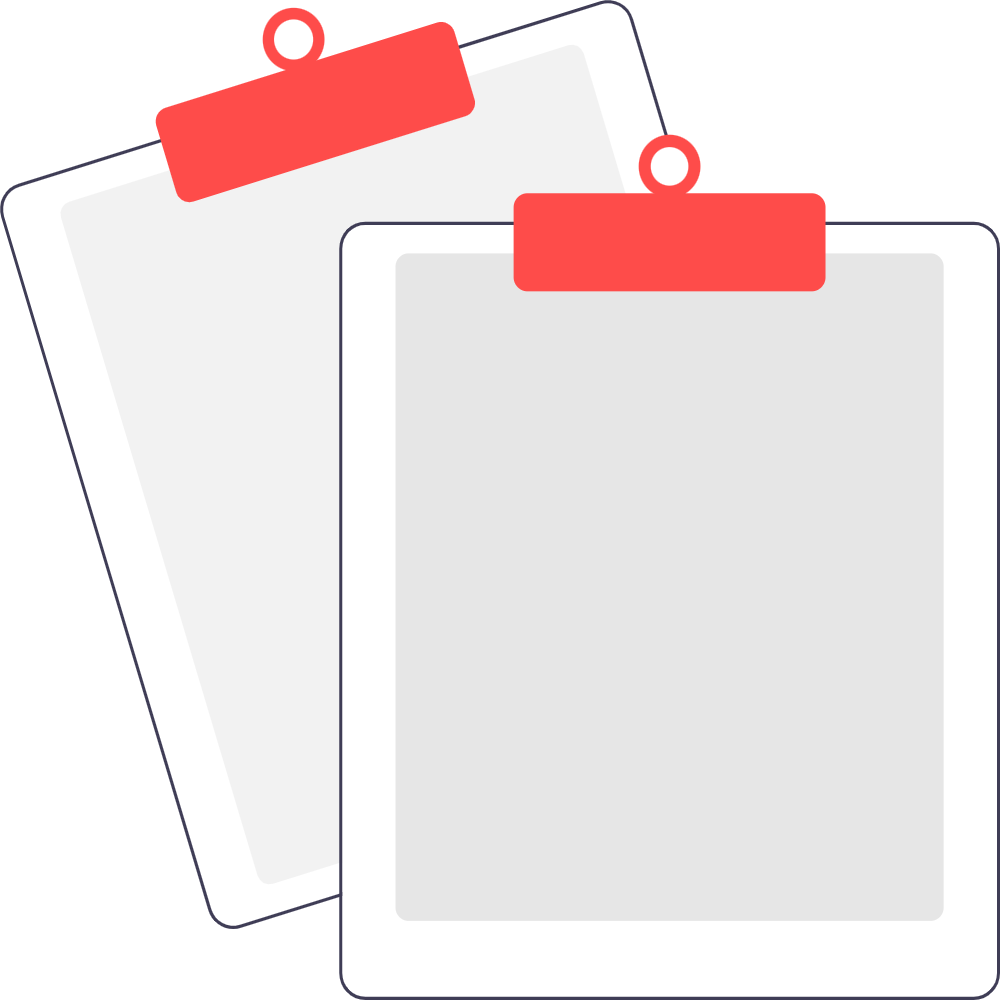
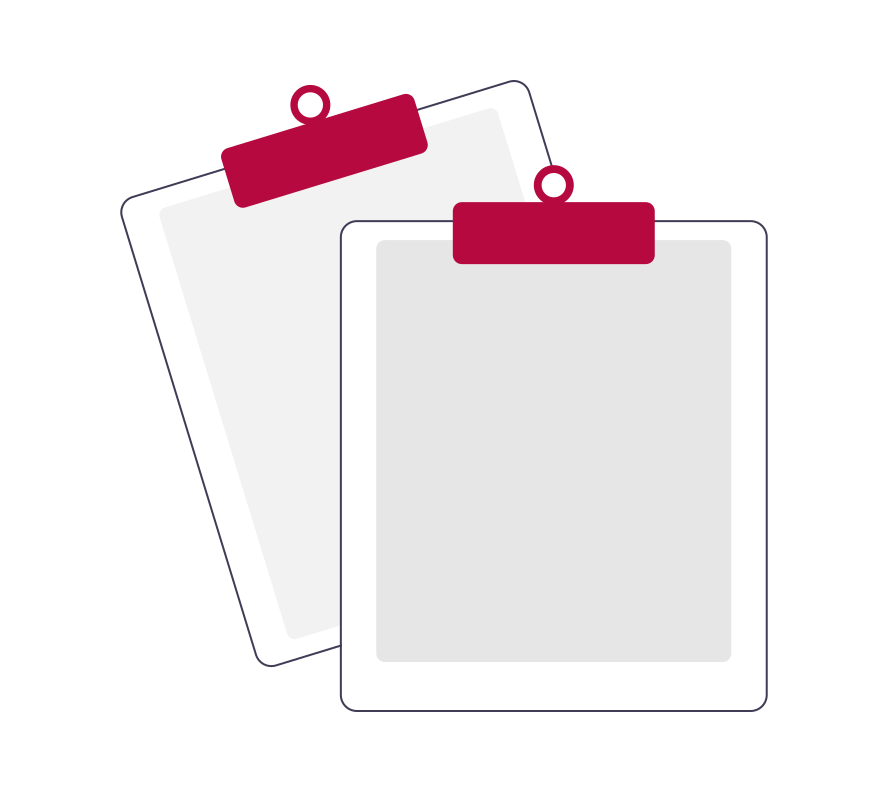
Bug fixes, edited theme, added feature
- Fixed Continent - Country issue (When updating Continent, the countries are now limited to the countries of that continent)
- Small theme changes (HPI Logo now on top, changed default colors)
- Absolute/relative numbers now on right side of the chart, no need to click "Submit and Compare" anymore to change data representation

diff --git a/prototype.py b/prototype.py
@@ -5,12 +5,9 @@ import streamlit as st
 import numpy as np
 import os
 from PIL import Image
-
 from utils import log
 import graph_logic as gl
 import general_statistics as gs
-
-
 
 
 def main():
@@ -18,14 +15,34 @@ def main():
 
     img = Image.open('assets/page_icon.ico')
     st.set_page_config(
-        page_title='GAP • Hasso-Plattner-Institut', page_icon=img, layout="wide")
+        page_title='GAP • Hasso-Plattner-Institut',
+        page_icon=img,
+        layout="wide",
+        menu_items={
+            'About': "htt"
+        }
+    )
+
+    hide_hamburger_menu = '''
+        <style>
+            #MainMenu {
+                content:url("https://upload.wikimedia.org/wikipedia/commons/thumb/a/a9/HPI_logo.svg/1200px-HPI_logo.svg.png"); 
+                width: 50px;
+                height: 50px;
+                visibility: visible;      
+            }
+        </style>
+    '''
+
+    st.markdown(hide_hamburger_menu, unsafe_allow_html=True)
 
     st.title('GAP: Gender Analysis for Publications')
 
     # Connect to SQLite database
     with st.spinner('Opening datasbase connection (This can take a while)...'):
         if 'connection' not in st.session_state:
-            st.session_state.connection = connect('gap.db', check_same_thread=False)
+            st.session_state.connection = connect('gap.db',
+                                                  check_same_thread=False)
 
         # Create cursor object
         if 'cursor' not in st.session_state:
@@ -42,11 +59,9 @@ def main():
             sql = '''SELECT min(Year),max(Year) FROM AllTogether;'''
             st.session_state.min_max = query_action(sql, 'check')[0]
         if 'year_range' not in st.session_state:
-            st.session_state.year_range = [
-                2000, 2022]
+            st.session_state.year_range = [2000, 2022]
         if 'pyr' not in st.session_state:
-            st.session_state.pyr = [
-                2000, 2022]
+            st.session_state.pyr = [2000, 2022]
         if 'widget_data_representation' not in st.session_state:
             st.session_state.widget_data_representation = 'Absolute numbers'
 
@@ -55,13 +70,13 @@ def main():
         if 'widget_count' not in st.session_state:
             st.session_state.widget_count = ''
         if 'widget_cont' not in st.session_state:
-            st.session_state.widget_cont = ''
+            st.session_state.widget_cont = []
         if 'widget_pub_type' not in st.session_state:
             st.session_state.widget_pub_type = ''
         if 'widget_auth_pos' not in st.session_state:
             st.session_state.widget_auth_pos = ''
         if 'widget_data_representation' not in st.session_state:
-            st.session_state.widget_data_representation = ''
+            st.session_state.widget_data_representation = 'Absolute numbers'
         if 'logtxtbox' not in st.session_state:
             st.session_state.logtxtbox = ''
 
@@ -76,60 +91,19 @@ def main():
         if 'ui_widget_auth_pos' not in st.session_state:
             st.session_state.ui_widget_auth_pos = ''
 
-
         if 'line_graph_data' not in st.session_state:
             st.session_state.line_graph_data = None
         if 'graph_years' not in st.session_state:
             st.session_state.graph_years = None
 
-#     st.markdown("""
-#         <style>
-# ul.streamlit-expander {
-#     border: 0 !important;
-# </style>
-# """, unsafe_allow_html=True),
-    with st.spinner('Loading filters 2/2...'):  
-        gl.display_filters(
-            st.session_state.cursor)
+    with st.spinner('Loading filters 2/2...'):
+        gl.display_filters(st.session_state.cursor)
 
-    #col1, col2 = st.columns([1, 3])
-
-    # button = col1.button('Submit and Compare')
-
-    # is_submit_pressed = button_states()
-
-    # if button:
-    #     # any changes need to be performed in place
-    #     is_submit_pressed.update({"pressed": True})
-    #     gl.populate_graph(st.session_state.connection)
-
-    # if is_submit_pressed["pressed"]:
-    #     gl.populate_graph(st.session_state.connection)
-
-
-    #st.session_state['graph'] = st.empty()
-
-    # if len(st.session_state.y_columns) == 0:
-    #         with graph_col:
-    #             st.markdown(
-    #                 "<h5 style='text-align: center;'>You have not selected any graphs yet </h5>", unsafe_allow_html=True)
-
-    #             image = Image.open('assets/no_data.png')
-
-    #             col1, col2, col3 = st.columns(3)
-
-    #             with col1:
-    #                 st.write('')
-
-    #             with col2:
-    #                 st.image(image, use_column_width=True)
-
-    #             with col3:
-    #                 st.write('')
 
     if 'graph' not in st.session_state or st.session_state.graph == None or not st.session_state.graph.data:
         st.markdown(
-            "<h5 style='text-align: center;'>You have not selected any graphs yet </h5>", unsafe_allow_html=True)
+            "<h5 style='text-align: center;'>You have not selected any graphs yet </h5>",
+            unsafe_allow_html=True)
 
         image = Image.open('assets/no_data.png')
 
@@ -144,8 +118,13 @@ def main():
         with col3:
             st.write('')
     else:
-        print('Showing')
-        st.plotly_chart(st.session_state.graph, use_container_width = True)
+        col1, col2 = st.columns([4, 1])
+        widget_data_representation = col2.radio(
+            'Select if the data will be shown in percentage or absolute numbers:', ['Absolute numbers', 'Relative numbers'], index=0) # on_change=change_data_representation() 
+        if widget_data_representation != st.session_state.widget_data_representation:
+            st.session_state.widget_data_representation = widget_data_representation
+            gl.populate_graph(st.session_state.connection, st.session_state.widget_venue, st.session_state.widget_count, st.session_state.widget_cont, st.session_state.widget_pub_type, st.session_state.widget_auth_pos)
+        col1.plotly_chart(st.session_state.graph, use_container_width=True)
 
     gl.display_graph_checkboxes()
 
@@ -153,43 +132,38 @@ def main():
 
     display_footer()
 
-
-# Keep the state of the button press between actions
-# @st.cache(allow_output_mutation=True)
-# def button_states():
-#     return {"pressed": None}
-
 def display_footer():
     st.title("")
-    st.markdown('<hr style="height:1px;border:none;color:#D3D3D3;background-color:#D3D3D3;"/>',
-                unsafe_allow_html=True)
     st.markdown(
-        "<h6 style='text-align: center;'>Presented to you by <a href=\"https://hpi.de/naumann/home.html\" style=\"color: #fe4c4a\">HPI Information Systems Group</a></h6>", unsafe_allow_html=True)
+        '<hr style="height:1px;border:none;color:#D3D3D3;background-color:#D3D3D3;"/>',
+        unsafe_allow_html=True)
+    st.markdown(
+        "<h6 style='text-align: center;'>Presented to you by <a href=\"https://hpi.de/naumann/home.html\" style=\"color: #b1073b\">HPI Information Systems Group</a></h6>",
+        unsafe_allow_html=True)
     col1, col2, col3 = st.columns([2, 1, 2])
     col1.markdown("")
     col2.image('assets/hpi_logo.png')
     col3.markdown("")
 
     st.title("")
-    col1, col2 = st.columns(2)
-    col1.markdown("<a href='https://hpi.de/impressum.html' style='color: #fe4c4a'>Imprint</a>", unsafe_allow_html=True)
-    col2.markdown("<a href='https://hpi.de/datenschutz.html' style='color: #fe4c4a'>Privacy policy</a>", unsafe_allow_html=True)
+    st.markdown(
+        "<style>a {display: grid; justify-content: center;} </style>  <a href='https://hpi.de/impressum.html' style='color: #b1073b'>Imprint</a> <a href='https://hpi.de/datenschutz.html' style='color: #b1073b'>Privacy policy</a>",
+        unsafe_allow_html=True)
 
 
     hide_streamlit_style = '''
-            <style>
-            footer {visibility: hidden;}
-            footer:after {
-	            content:'Made by HPI Information Systems Group'; 
-	            visibility: visible;
-                display: block;
-                position: relative;
-                #background-color: red;
-                padding: 5px;
-                top: 2px;
-            }
-            </style>
-            '''
+        <style>
+        footer {visibility: hidden;}
+        footer:after {
+            content:'Made by HPI Information Systems Group'; 
+            visibility: visible;
+            display: block;
+            position: relative;
+            #background-color: red;
+            padding: 5px;
+            top: 2px;
+        }
+    '''
     st.markdown(hide_streamlit_style, unsafe_allow_html=True)
 
 
@@ -202,11 +176,11 @@ def query_action(sql, action='run'):
         store = {}
         # Fetching rows from the result table
         result = st.session_state.cursor.fetchall()
-        if(action == 'check'):
+        if (action == 'check'):
             return result
         for row in result:
             store[row[0]] = row[1]
-        return(store)
+        return (store)
 
 
 if __name__ == "__main__":

diff --git a/graph_logic.py b/graph_logic.py
@@ -17,7 +17,6 @@ def display_filters(cursor):
         cursor.execute(sql)
         result = cursor.fetchall()
         options_Continent = []
-        #print(result)
         for row in result:
             options_Continent.append(row[0])
         options_Continent = tuple(options_Continent)
@@ -63,48 +62,49 @@ def display_filters(cursor):
 
     placeholder = st.empty()
 
-    with st.form("Filters"):
+    #with st.form("Filters"):
 
 
 
-        col1, col2 = st.columns([1, 1])
-        with col1:
-            widget_cont = st.multiselect(
-                'Filter by Continent:', st.session_state.filters[0], key='cont')
+    col1, col2 = st.columns([1, 1])
+    with col1:
+        widget_cont = st.multiselect(
+            'Filter by Continent:', st.session_state.filters[0], key='cont')
 
-
-            
-            widget_venue = st.multiselect(
-                'Filter by Conference/Journals:', st.session_state.filters[2], key='venue')
-        with col2:
-            widget_count = st.multiselect(
-                    'Filter by Country:', st.session_state.filters[1], key='country')
-            widget_pub_type = st.multiselect(
-                'Filter by publication type:', st.session_state.filters[3], key='publication_type')
+        if widget_cont != st.session_state.widget_cont:
+            st.session_state.widget_cont = widget_cont
+            update_available_countries(cursor)
 
         
+        widget_venue = st.multiselect(
+            'Filter by Conference/Journals:', st.session_state.filters[2], key='venue')
+    with col2:
+        widget_count = st.multiselect(
+                'Filter by Country:', st.session_state.filters[1], key='country')
+        widget_pub_type = st.multiselect(
+            'Filter by publication type:', st.session_state.filters[3], key='publication_type')
 
-        # year-range selector for the drop-down lists for selection
-        st.subheader("Global Options")
-        col1, col2 = st.columns([3, 1])
-        with col1:
-            year_range = st.slider(
-            "Select years range:",  min_value=st.session_state.min_max[0], value=st.session_state.year_range, max_value=st.session_state.min_max[1], key='year_range')
-            # if (st.session_state.year_range[0] != year_range[0]) or (st.session_state.year_range[1] != year_range1[1]):
-            # on_change=update_graph
-            #     st.session_state.year_range = year_range
-        with col2:
-            widget_auth_pos = st.radio(
-                'Filter by Woman Author Position:', ('First author woman', 'Middle author woman', 'Last author woman', 'Any author woman'), key='author_pos')
-            widget_data_representation = st.radio(
-                'Select if the data will be shown in percentage or absolute numbers:', ['Absolute numbers', 'Relative numbers'], ) # on_change=update_graph
+    
 
-        clear_history_button = st.form_submit_button('Clear History', on_click=clear_history)
+    # year-range selector for the drop-down lists for selection
+    st.subheader("Global Options")
+    col1, col2 = st.columns([3, 1])
+    with col1:
+        year_range = st.slider(
+        "Select years range:",  min_value=st.session_state.min_max[0], value=st.session_state.year_range, max_value=st.session_state.min_max[1], key='year_range')
+        # if (st.session_state.year_range[0] != year_range[0]) or (st.session_state.year_range[1] != year_range1[1]):
+        # on_change=update_graph
+        #     st.session_state.year_range = year_range
+    with col2:
+        widget_auth_pos = st.radio(
+            'Filter by Woman Author Position:', ('First author woman', 'Middle author woman', 'Last author woman', 'Any author woman'), key='author_pos')
 
-        button = st.form_submit_button('Submit and Compare')
+    clear_history_button = st.button('Clear History', on_click=clear_history)
 
-        if button:
-            update_graph(widget_venue, widget_count, widget_cont, widget_pub_type, widget_auth_pos, widget_data_representation)
+    button = st.button('Submit and Compare')
+
+    if button:
+        update_graph(widget_venue, widget_count, widget_cont, widget_pub_type, widget_auth_pos, st.session_state.widget_data_representation)
 
         # if clear_history_button:
         #     clear_history()
@@ -123,16 +123,16 @@ def clear_history():
     clear_graphs()
     
 
-def update_available_countries(cursor, value):
-    if not value:
+def update_available_countries(cursor):
+    if not st.session_state.widget_cont:
         sql = '''SELECT DISTINCT Country FROM AllTogether ORDER BY Country ASC;'''
     else:
         continent_filter = 'WHERE '
 
-        for i in range(len(value)):
+        for i in range(len(st.session_state.widget_cont)):
             if i != 0:
                 continent_filter = continent_filter + " OR "
-            continent_filter = continent_filter + f"Continent=\"{value[i]}\""
+            continent_filter = continent_filter + f"Continent=\"{st.session_state.widget_cont[i]}\""
 
         sql = f'''SELECT DISTINCT Country, Continent FROM AllTogether {continent_filter} ORDER BY Country ASC;'''
          
@@ -307,6 +307,7 @@ def paint_graph():
     line_graph_data = st.session_state.line_graph_data
 
     line_graph_data = get_selected_df()
+    print(line_graph_data)
     line_graph_data['Year'] = [int(i) for i in st.session_state.graph_years]
 
     line_graph_data = line_graph_data.set_index('Year')
@@ -321,7 +322,11 @@ def paint_graph():
     else:
         fig.update_layout(yaxis_title='Number of Publications')
 
+    print(3)
+
     st.session_state.graph = fig
+
+    print(4)
 
 def change_year_range_df():
     st.session_state.line_chart = st.empty()
@@ -340,9 +345,11 @@ def get_selected_df():
     for i in range(len(st.session_state.y_columns)):
         if st.session_state.y_columns[i][1] == True:
             if st.session_state.widget_data_representation == 'Absolute numbers':
+                print('1')
                 true_df.insert(
                     loc=0, column=st.session_state.y_columns[i][0], value=st.session_state.df_compare[0][st.session_state.y_columns[i][0]])
             else:
+                print('2')
                 true_df.insert(
                     loc=0, column=st.session_state.y_columns[i][0], value=st.session_state.df_compare[1][st.session_state.y_columns[i][0]])
 
@@ -358,7 +365,6 @@ def clear_graphs():
 def display_graph_checkboxes():
     st.subheader('Graph history')
 
-    print('-----------------')
 
     if len(st.session_state.y_columns) != 0:
 
@@ -368,7 +374,6 @@ def display_graph_checkboxes():
             globals()['graph_checkbox_%s' % i] = st.checkbox(
                 st.session_state.y_columns[i][0], value=st.session_state.y_columns[i][1], key=f'graph_checkbox_{i}', on_change=change_graph_checkbox, args=(i,))
             st.session_state.y_columns[i][1] = globals()['graph_checkbox_%s' % i]
-            print(st.session_state.y_columns[i][1])
             globals()['graph_checkbox_%s' % i] = globals()['graph_checkbox_%s' % i]
                 #globals()['graph_checkbox_%s' % i] = False
 
